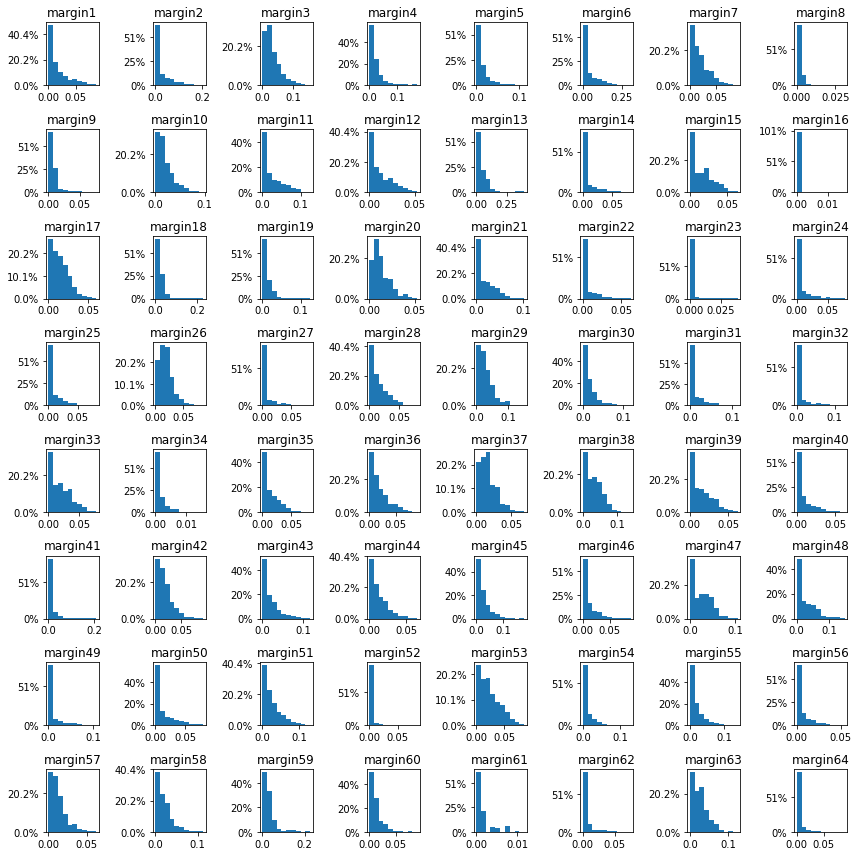
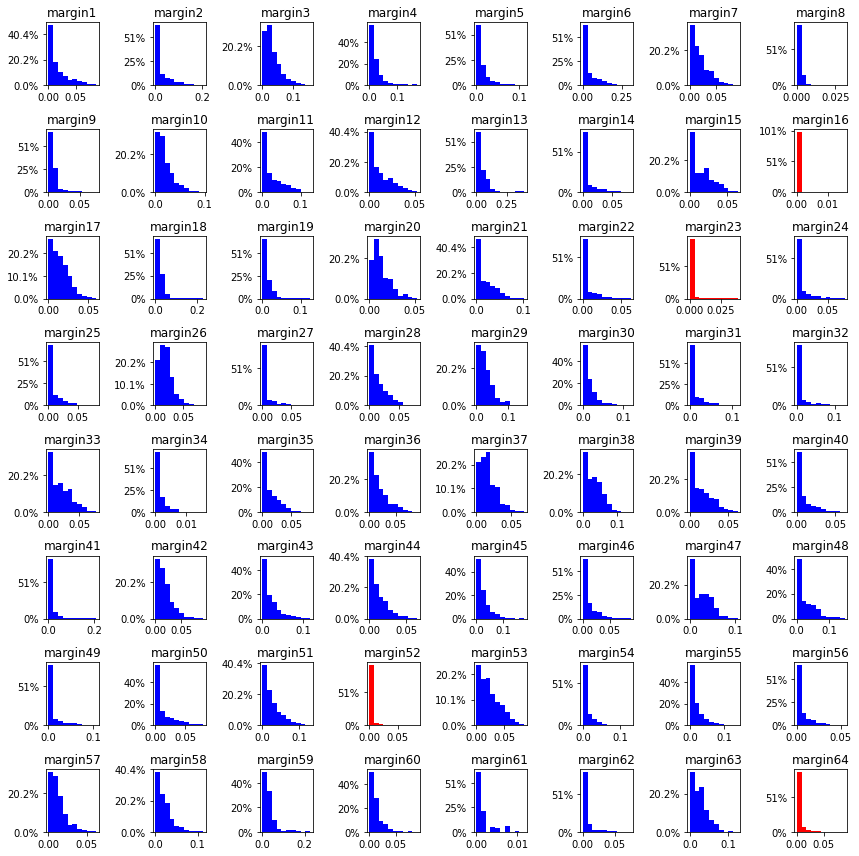
Let user decide % carecteristics threshold

diff --git a/Dataset.py b/Dataset.py
@@ -19,7 +19,7 @@ from sklearn.impute import SimpleImputer
 from sklearn.preprocessing import LabelEncoder, OneHotEncoder 
 
 class Dataset:
-    def __init__(self, path, selected_data):
+    def __init__(self, path, display, selected_data):
         self.images = []
         self.train = pd.read_csv(str(path + 'train.csv'))
         self.test = pd.read_csv(str(path + 'test.csv'))
@@ -28,8 +28,10 @@ class Dataset:
             self.images.append(mpimg.imread(str("Data/images/" + str(i) + ".jpg")))        
         
         # preprocessing
-        self.remove_unselected_data(selected_data)
-        self.normalize()
+        to_delete = self.plot_caracteristics(display, selected_data)
+        self.feature_selection(to_delete)
+            
+        #self.normalize()
         print("stop")
         #self.train = self.handling_missing(self.train, 2, self.train.shape[1])
         #self.test = self.handling_missing(self.test, 2, self.test.shape[1])
@@ -87,47 +89,76 @@ class Dataset:
                     # the test has less values than the train dataset
                     if i < len(self.test.loc[:,tr_columnName]):
                         self.test.at[i,tr_columnName] = (self.test.at[i,tr_columnName] - _min) / (_max - _min)
-
-    def plot_caracteristics(self):
-        i = 0
-        plt.subplots(figsize=(12, 12))
-        for (columnName, columnData) in self.train.iteritems():
-            if "margin" in columnName:
-                i += 1
-                plt.subplot(8, 8, i) 
-                plt.hist(columnData)
-                plt.gca().yaxis.set_major_formatter(PercentFormatter(xmax=len(columnData)))
-                plt.title(columnName)
-            elif "shape" in columnName:
-                i += 1
-                plt.subplot(8, 8, i) 
-                plt.hist(columnData)
-                plt.gca().yaxis.set_major_formatter(PercentFormatter(xmax=len(columnData)))
-                plt.title(columnName)
-            elif "texture" in columnName:
-                i += 1
-                plt.subplot(8, 8, i) 
-                plt.hist(columnData)
-                plt.gca().yaxis.set_major_formatter(PercentFormatter(xmax=len(columnData)))
-                plt.title(columnName)
             
-            if i == 64:
-                plt.tight_layout()
-                plt.show()
-                plt.subplots(figsize=(12, 12))
-                i = 0
-            
-    def remove_unselected_data(self, user_selection):
-        if user_selection == 's':
-            return
+    def feature_selection(self, to_delete):
+        if not to_delete: # lists are considered as bool if empty
+            pass
         
         # automatically it is mixed or hard so we remove mixed first
-        self.train.drop(columns=['margin16', 'margin23', 'margin52', 'texture15', 'texture21', 'texture36', 'texture56', 'texture60', 'texture61'], axis=1, inplace=True)
-        self.test.drop(columns=['margin16', 'margin23', 'margin52', 'texture15', 'texture21', 'texture36', 'texture56', 'texture60', 'texture61'], axis=1, inplace=True)
+        self.train.drop(columns=to_delete, axis=1, inplace=True)
+        self.test.drop(columns=to_delete, axis=1, inplace=True)
         
-        if user_selection == 'h':
-            self.train.drop(columns=['margin8', 'margin27', 'margin32', 'margin41', 'margin64','texture1', 'texture12', 'texture32', 'texture33', 'texture41', 'texture51'], axis=1, inplace=True)
-            self.test.drop(columns=['margin8', 'margin27', 'margin32', 'margin41', 'margin64','texture1', 'texture12', 'texture32', 'texture33', 'texture41', 'texture51'], axis=1, inplace=True)
+    def plot_caracteristics(self, display, tolerance):
+        to_delete = []
+        if display :
+            i = 0
+            plt.subplots(figsize=(12, 12))
+            for (columnName, columnData) in self.train.iteritems():
+                if "margin" in columnName:
+                    i += 1
+                    plt.subplot(8, 8, i) 
+                    n, _, _ = plt.hist(columnData)
+                    
+                    if (np.max(n) >= np.sum(n) * tolerance):
+                        plt.hist(columnData, color='red')
+                        to_delete.append(columnName)
+                    else:
+                        plt.hist(columnData, color='blue')
+                    
+                    plt.gca().yaxis.set_major_formatter(PercentFormatter(xmax=len(columnData)))
+                    plt.title(columnName)
+                elif "shape" in columnName:
+                    i += 1
+                    plt.subplot(8, 8, i) 
+                    n, _, _ = plt.hist(columnData)
+                    
+                    if (np.max(n) >= np.sum(n) * tolerance):
+                        plt.hist(columnData, color='red')
+                        to_delete.append(columnName)
+                    else:
+                        plt.hist(columnData, color='blue')
+                        
+                    plt.gca().yaxis.set_major_formatter(PercentFormatter(xmax=len(columnData)))
+                    plt.title(columnName)
+                elif "texture" in columnName:
+                    i += 1
+                    plt.subplot(8, 8, i) 
+                    n, _, _ = plt.hist(columnData)
+                    
+                    if (np.max(n) >= np.sum(n) * tolerance):
+                        plt.hist(columnData, color='red')
+                        to_delete.append(columnName)
+                    else:
+                        plt.hist(columnData, color='blue')
+                        
+                    plt.gca().yaxis.set_major_formatter(PercentFormatter(xmax=len(columnData)))
+                    plt.title(columnName)
+                
+                if i == 64:
+                    plt.tight_layout()
+                    plt.show()
+                    plt.subplots(figsize=(12, 12))
+                    i = 0
+        else:
+            for (columnName, columnData) in self.train.iteritems():
+                n, _, _ = plt.hist(columnData)
+                    
+                if (np.max(n) >= np.sum(n) * tolerance):
+                    to_delete.append(columnName)
+        
+        return to_delete
+                        
+            
 
     def get_Species(self):
         self.species = []

diff --git a/main.py b/main.py
@@ -44,22 +44,24 @@ import Dataset as dt
 
 if __name__ == "__main__":
     arg1 = "Data/"  # Path of the data folder
-    arg2 = 'h'  # How much data do we take into account
-    arg3 = 5  # Number of K in KNN algorithm
+    arg2 = True # Display caracteristics histograms
+    arg3 = 0.85  # What is the max % of caracteristics similar in a 10% range with respect to the total range of the caracteristic
+    arg4 = 5  # Number of K in KNN algorithm
 
     """
     if len(sys.argv) < 8:
         print("Usage: python main.py sk dataPath\n")
 
         print("\t path: The path to the Data folder")
-        print("\t path: How much data do we take into account : 'h' for hard, 'm' for mixed and 's' for soft and use all data")
-        print("\t path: The number of neighbour in the KNN-calssifyer")
+        print("\t display caracteristics: The path to the Data folder")
+        print("\t feature selection: The maximum % of carecteristics in a 10% range of total caracteristics values [0,1]")
+        print("\t Number of neighbour for KNN: The number of neighbour in the KNN-calssifyer")
         print(" exemple: python3 main.py ../Data\n")
         return
 
     path_data = str(sys.argv[1])
     """
 
-    dataset = dt.Dataset(arg1, arg2)
+    dataset = dt.Dataset(arg1, arg2, arg3)
 
     print("hello world")
